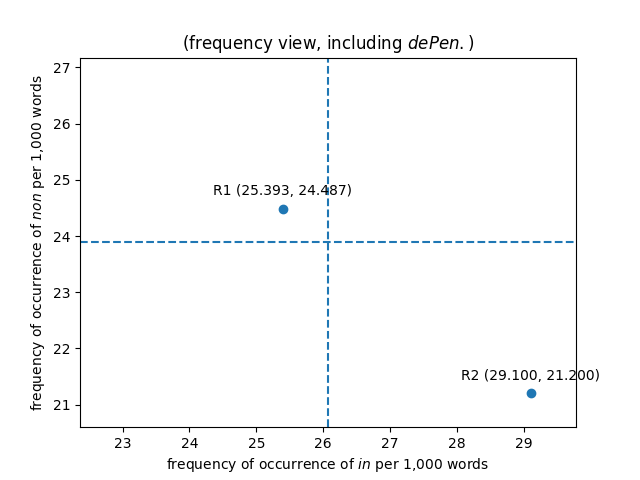
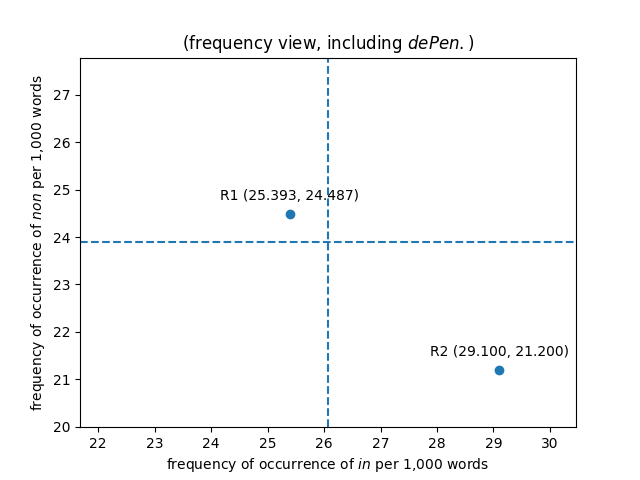
Add argparse support and regenerate figures

diff --git a/Chapter4/visualize.py b/Chapter4/visualize.py
@@ -4,6 +4,7 @@
 # 6 February 2020
 # 22 January 2020
 #
+import argparse
 import math
 import matplotlib.pyplot as pp
 import statistics
@@ -14,8 +15,14 @@ def standard_deviation(values, mu):
         sum += (value - mu) ** 2
     return(math.sqrt(sum / len(values)))
 
-de_pen = False
-frequency_view = False
+parser = argparse.ArgumentParser()
+parser.add_argument('-f', '--frequency_view', action='store_true')
+parser.add_argument('-p', '--de_pen', action='store_true')
+args = parser.parse_args()
+if args.de_pen: de_pen = True
+else: de_pen = False
+if args.frequency_view: frequency_view = True
+else: frequency_view = False
 
 if de_pen:
     # number of words in R1 and R2 dicta
@@ -136,6 +143,6 @@ else:
     title_string += 'excluding $\it{de Pen.}$)'
     filename += 'excluding_de_Pen.png'
 pp.title(title_string)
-# pp.savefig(filename)
+pp.savefig(filename)
 pp.gcf().canvas.set_window_title('Figure 0')
 pp.show()

diff --git a/Chapter4/visualization.md b/Chapter4/visualization.md
@@ -41,7 +41,7 @@ axis, and the frequency of *non* plotted along the vertical axis,
 and we would have a simplified visualization of the total variation
 between the two samples. 
 
-![Figure 0a updated 6 Feb 2020](PNGs/Figure_0_frequency_excluding_de_Pen.png)
+![Figure 0a updated 10 Feb 2020](PNGs/Figure_0_frequency_excluding_de_Pen.png)
 
 Figure 0a introduces several conventions common to 2-dimensional
 graphical representations of word frequency data that the reader
@@ -71,7 +71,7 @@ of occurrence in the samples. This is not necessarily the case, and
 more advanced tools and techniques introduced below will deal with
 this problem in a more sophisticated way.
 
-![Figure 0b updated 6 Feb 2020](PNGs/Figure_0_z-score_excluding_de_Pen.png)
+![Figure 0b updated 10 Feb 2020](PNGs/Figure_0_z-score_excluding_de_Pen.png)
 
 Figure 0b introduces a more statistically-informed way of measuring
 the variation or distance between samples. This involves calculating
@@ -104,11 +104,11 @@ Delta is one of a number of distance methods of authorship attribution,
 but has the specific advantage of being widely accepted in the
 scholarly literature of the field of computational linguistics.
 
-![Figure 0c updated 6 Feb 2020](PNGs/Figure_0_frequency_including_de_Pen.png)
+![Figure 0c updated 10 Feb 2020](PNGs/Figure_0_frequency_including_de_Pen.png)
 
 Figure 0c not needed?
 
-![Figure 0d updated 6 Feb 2020](PNGs/Figure_0_z-score_including_de_Pen.png)
+![Figure 0d updated 10 Feb 2020](PNGs/Figure_0_z-score_including_de_Pen.png)
 
 Now, we are obviously not going to make an attribution of authorship
 based on the frequencies of only two function words. Note, however,
